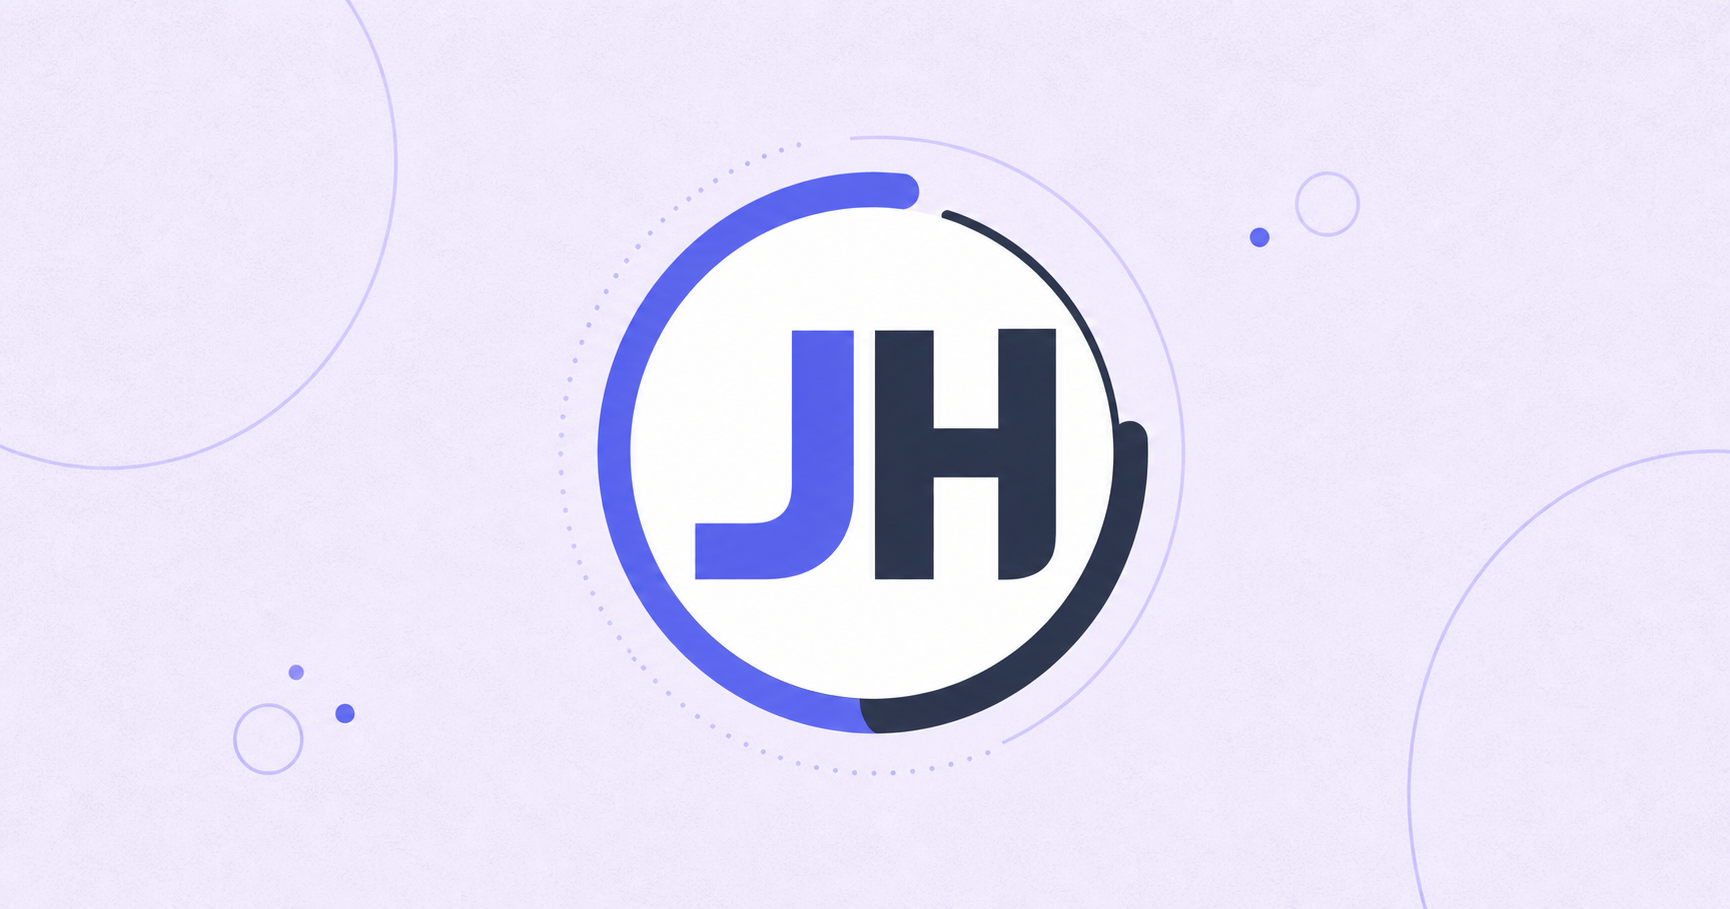
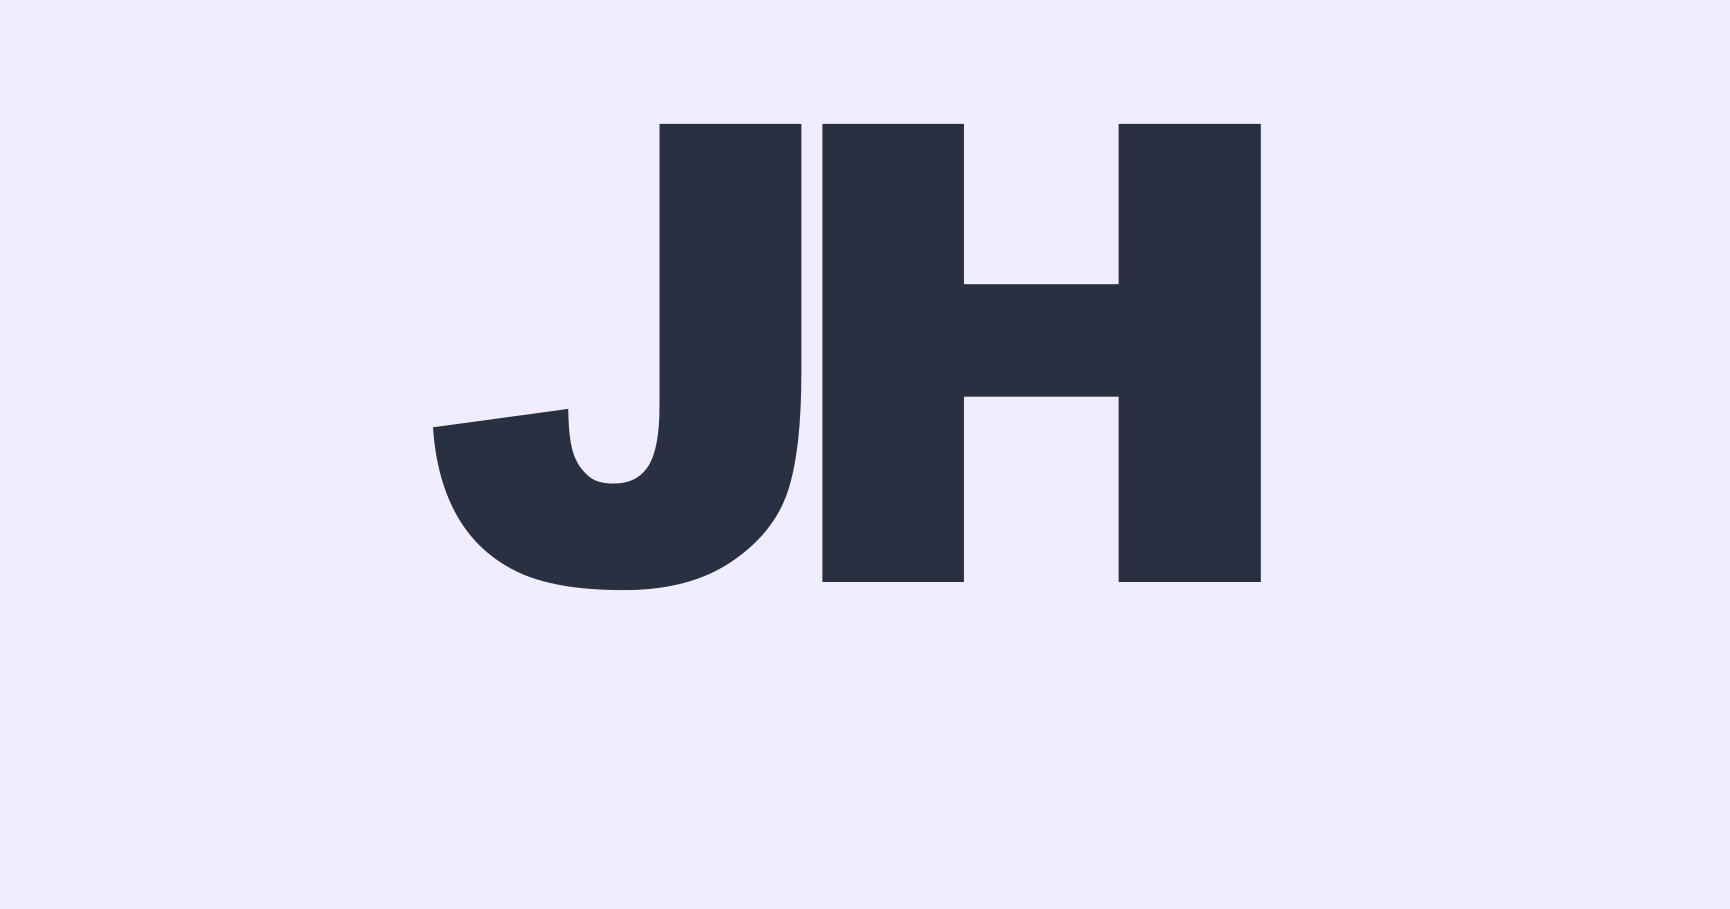
fix: simplify social image and restore navigation

diff --git a/app/components/top-link.tsx b/app/components/top-link.tsx
@@ -1,7 +1,6 @@
 "use client";
 
 import type { MouseEvent } from "react";
-import Image from "next/image";
 
 export default function TopLink() {
   const moveToTop = (event: MouseEvent<HTMLAnchorElement>) => {
@@ -11,8 +10,7 @@ export default function TopLink() {
 
   return (
     <a className="wordmark" href="#top" aria-label="페이지 최상단으로 이동" onClick={moveToTop}>
-      <Image src="/og-jh.png" alt="" width={30} height={30} />
-      <span>진환&apos;s 포트폴리오</span>
+      진환&apos;s 포트폴리오
     </a>
   );
 }

diff --git a/app/globals.css b/app/globals.css
@@ -6,7 +6,7 @@ html { scroll-behavior:smooth; }
 body { margin:0; background:var(--paper); color:var(--ink); font-family:Arial, "Apple SD Gothic Neo", "Malgun Gothic", sans-serif; }
 a { color:inherit; text-decoration:none; }
 .section-wrap { max-width:1240px; margin:0 auto; padding-left:40px; padding-right:40px; }
-.site-nav { position:sticky; top:0; z-index:50; max-width:1240px; height:82px; margin:0 auto; padding:0 40px; display:flex; align-items:center; justify-content:space-between; border-bottom:1px solid var(--line); background:rgba(251,250,247,.92); backdrop-filter:blur(12px); font-size:13px; font-weight:700; }.wordmark { display:inline-flex; align-items:center; gap:9px; font-weight:800; letter-spacing:-.04em; }.wordmark img { width:30px; height:30px; border-radius:50%; object-fit:cover; object-position:center; }.wordmark span { color:var(--blue); }.nav-links { display:flex; gap:28px; color:var(--muted); }.nav-links a:hover,.back-link:hover { color:var(--blue); }
+.site-nav { position:sticky; top:0; z-index:50; max-width:1240px; height:82px; margin:0 auto; padding:0 40px; display:flex; align-items:center; justify-content:space-between; border-bottom:1px solid var(--line); background:rgba(251,250,247,.92); backdrop-filter:blur(12px); font-size:13px; font-weight:700; }.wordmark { font-weight:800; letter-spacing:-.04em; }.wordmark span { color:var(--blue); }.nav-links { display:flex; gap:28px; color:var(--muted); }.nav-links a:hover,.back-link:hover { color:var(--blue); }
 
 .hero { padding-top:55px; padding-bottom:28px; }.hero-content { display:grid; grid-template-columns:1.3fr .7fr; gap:64px; align-items:center; min-height:570px; padding:64px 72px; border-radius:32px; background:var(--lavender); overflow:hidden; position:relative; }.hero-content:after { content:""; position:absolute; width:330px; height:330px; right:-120px; top:-125px; border-radius:50%; background:#dcd7ff; }.hero-copy { position:relative; z-index:1; }.hero-kicker { display:inline-block; margin:0 0 17px; padding:8px 13px; border-radius:999px; background:#fff; color:var(--blue-dark); font-size:12px; font-weight:800; }.hero h1 { margin:0; font-size:clamp(46px,6.2vw,86px); line-height:1.1; letter-spacing:-.075em; font-weight:800; }.hero h1 em,.display-copy em { color:var(--blue); font-style:normal; }.hero-description { max-width:490px; margin:28px 0; color:#565d6d; font-size:16px; line-height:1.8; }.primary-link { display:inline-block; padding:14px 20px; border-radius:14px; background:var(--blue); color:#fff; font-size:13px; font-weight:800; transition:background .2s ease, transform .2s ease; }.primary-link:hover { background:var(--blue-dark); transform:translateY(-2px); }.primary-link span { margin-left:20px; font-size:17px; }.profile-card { position:relative; z-index:1; width:min(100%,290px); justify-self:end; padding:13px; border-radius:26px; background:#fff; box-shadow:0 18px 40px rgba(68,75,130,.13); transform:rotate(2deg); }.photo-placeholder { height:320px; display:flex; flex-direction:column; align-items:center; justify-content:center; border-radius:18px; background:linear-gradient(145deg,#ffece4,#ffdcd8); color:#b26b63; text-align:center; }.photo-placeholder span { padding:6px 9px; border-radius:999px; background:rgba(255,255,255,.65); font-size:9px; font-weight:800; letter-spacing:.1em; }.photo-placeholder strong { margin-top:26px; font-size:42px; letter-spacing:-.1em; }.photo-placeholder small { margin-top:8px; font-size:11px; line-height:1.5; }.profile-meta { padding:15px 6px 6px; }.profile-meta span { color:var(--blue); font-size:11px; font-weight:800; }.profile-meta strong { display:block; margin-top:4px; font-size:23px; letter-spacing:-.06em; }.profile-meta p { margin:4px 0 0; color:var(--muted); font-size:11px; }.hero-grid { display:grid; grid-template-columns:repeat(3,1fr); gap:16px; margin-top:16px; }.hero-grid div { min-height:110px; padding:20px 22px; border-radius:18px; background:#fff; border:1px solid var(--line); display:flex; flex-direction:column; justify-content:space-between; }.hero-grid div:nth-child(2) { background:var(--mint); border-color:var(--mint); }.hero-grid div:nth-child(3) { background:var(--peach); border-color:var(--peach); }.hero-grid strong { font-size:clamp(21px,2.3vw,31px); letter-spacing:-.065em; }.hero-grid span { color:var(--muted); font-size:11px; font-weight:700; }
 
@@ -36,7 +36,7 @@ a { color:inherit; text-decoration:none; }
 
 .project-page { min-height:100vh; }.back-link { color:var(--muted); }.project-detail { padding-top:85px; padding-bottom:110px; }.detail-eyebrow { color:var(--blue); }.project-detail h1 { max-width:900px; margin:17px 0 48px; font-size:clamp(46px,7vw,94px); line-height:1.08; letter-spacing:-.085em; }.detail-intro { display:grid; grid-template-columns:1fr .7fr; gap:80px; padding:30px; border-radius:22px; background:var(--lavender); }.detail-intro > p { max-width:635px; margin:0; font-size:clamp(19px,2vw,27px); line-height:1.5; letter-spacing:-.04em; }.detail-intro dl { margin:0; }.detail-intro dl div { display:flex; justify-content:space-between; padding:10px 0; border-bottom:1px solid rgba(41,48,65,.15); font-size:12px; font-weight:700; }.detail-intro dt { color:var(--muted); }.detail-intro dd { margin:0; text-align:right; }.detail-stack { display:flex; flex-wrap:wrap; gap:7px; margin-top:24px; }.detail-stack span { background:#fff; }.detail-section { padding:85px 0; border-bottom:1px solid var(--line); }.two-column { display:grid; grid-template-columns:.7fr 1.3fr; gap:80px; }.detail-section h2,.decision-section h2 { margin:12px 0 0; font-size:clamp(30px,4vw,51px); line-height:1.1; letter-spacing:-.075em; }.detail-section ul { margin:0; padding:0; list-style:none; }.detail-section li { position:relative; margin-bottom:10px; padding:19px 20px 19px 48px; border-radius:15px; background:#fff; border:1px solid var(--line); font-size:15px; line-height:1.65; }.detail-section li:before { content:"↗"; position:absolute; left:19px; top:17px; color:var(--blue); font-weight:800; }.outcome-list li { background:var(--mint); border-color:var(--mint); font-weight:700; }.decision-section { padding-top:85px; }.decision-grid { display:grid; grid-template-columns:repeat(3,1fr); gap:16px; margin-top:35px; }.decision-grid article { min-height:225px; padding:22px; border-radius:20px; background:#fff; border:1px solid var(--line); }.decision-grid article:nth-child(2) { background:var(--mint); border-color:var(--mint); }.decision-grid article:nth-child(3) { background:var(--peach); border-color:var(--peach); }.decision-grid span { color:var(--blue); font-size:11px; font-weight:800; }.decision-grid h3 { margin:43px 0 10px; font-size:21px; letter-spacing:-.055em; }.decision-grid p { margin:0; color:#5e6673; font-size:13px; line-height:1.65; }
 
-@media (max-width:760px) { .section-wrap { padding-left:20px; padding-right:20px; }.site-nav { height:66px; padding:0 20px; font-size:12px; }.wordmark { gap:7px; }.wordmark img { width:25px; height:25px; }.nav-links { gap:15px; }.hero { padding-top:25px; }.hero-content { grid-template-columns:1fr; gap:30px; min-height:0; padding:40px 26px 26px; border-radius:24px; }.hero-content:after { width:230px; height:230px; right:-115px; top:-115px; }.hero h1 { font-size:clamp(42px,11.5vw,64px); }.hero-description { margin:23px 0; font-size:14px; }.profile-card { width:100%; justify-self:auto; display:grid; grid-template-columns:120px 1fr; gap:16px; align-items:center; padding:10px; transform:none; }.photo-placeholder { height:150px; }.photo-placeholder strong { margin-top:12px; font-size:30px; }.photo-placeholder small { font-size:9px; }.profile-meta { padding:0; }.hero-grid { gap:8px; margin-top:10px; }.hero-grid div { min-height:100px; padding:15px 12px; border-radius:14px; }.hero-grid strong { font-size:17px; }.hero-grid span { font-size:9px; line-height:1.4; }.intro,.scope-section,.systems-section,.skills-section { padding-top:82px; padding-bottom:82px; }.intro-copy,.system-layout,.detail-intro,.two-column { grid-template-columns:1fr; gap:28px; }.display-copy { font-size:39px; }.scope-list,.project-list,.skills-grid { grid-template-columns:1fr; gap:10px; }.scope-item { min-height:190px; }.project-heading { display:block; }.project-heading p { margin-top:23px; }.projects-section { padding-top:78px; padding-bottom:82px; }.project-card { min-height:330px; }.systems-section .section-label { margin-bottom:25px; }.system-map { min-height:310px; }.node-user { left:5%; top:8%; }.node-edge { left:32%; top:33%; }.node-app { right:4%; top:17%; width:145px; }.node-data { left:16%; bottom:12%; }.map-observe { right:4%; bottom:12%; width:130px; }.line-2 { width:17%; }.footer { grid-template-columns:1fr; padding-top:42px; }.footer-note { align-self:start; }.project-detail { padding-top:56px; padding-bottom:78px; }.project-detail h1 { margin-bottom:38px; }.detail-intro { padding:22px; }.detail-section { padding:64px 0; }.detail-section li { font-size:14px; }.decision-section { padding-top:64px; }.decision-grid { grid-template-columns:1fr; gap:10px; margin-top:28px; }.decision-grid article { min-height:auto; }.decision-grid h3 { margin-top:28px; } }
+@media (max-width:760px) { .section-wrap { padding-left:20px; padding-right:20px; }.site-nav { height:66px; padding:0 20px; font-size:12px; }.nav-links { gap:15px; }.hero { padding-top:25px; }.hero-content { grid-template-columns:1fr; gap:30px; min-height:0; padding:40px 26px 26px; border-radius:24px; }.hero-content:after { width:230px; height:230px; right:-115px; top:-115px; }.hero h1 { font-size:clamp(42px,11.5vw,64px); }.hero-description { margin:23px 0; font-size:14px; }.profile-card { width:100%; justify-self:auto; display:grid; grid-template-columns:120px 1fr; gap:16px; align-items:center; padding:10px; transform:none; }.photo-placeholder { height:150px; }.photo-placeholder strong { margin-top:12px; font-size:30px; }.photo-placeholder small { font-size:9px; }.profile-meta { padding:0; }.hero-grid { gap:8px; margin-top:10px; }.hero-grid div { min-height:100px; padding:15px 12px; border-radius:14px; }.hero-grid strong { font-size:17px; }.hero-grid span { font-size:9px; line-height:1.4; }.intro,.scope-section,.systems-section,.skills-section { padding-top:82px; padding-bottom:82px; }.intro-copy,.system-layout,.detail-intro,.two-column { grid-template-columns:1fr; gap:28px; }.display-copy { font-size:39px; }.scope-list,.project-list,.skills-grid { grid-template-columns:1fr; gap:10px; }.scope-item { min-height:190px; }.project-heading { display:block; }.project-heading p { margin-top:23px; }.projects-section { padding-top:78px; padding-bottom:82px; }.project-card { min-height:330px; }.systems-section .section-label { margin-bottom:25px; }.system-map { min-height:310px; }.node-user { left:5%; top:8%; }.node-edge { left:32%; top:33%; }.node-app { right:4%; top:17%; width:145px; }.node-data { left:16%; bottom:12%; }.map-observe { right:4%; bottom:12%; width:130px; }.line-2 { width:17%; }.footer { grid-template-columns:1fr; padding-top:42px; }.footer-note { align-self:start; }.project-detail { padding-top:56px; padding-bottom:78px; }.project-detail h1 { margin-bottom:38px; }.detail-intro { padding:22px; }.detail-section { padding:64px 0; }.detail-section li { font-size:14px; }.decision-section { padding-top:64px; }.decision-grid { grid-template-columns:1fr; gap:10px; margin-top:28px; }.decision-grid article { min-height:auto; }.decision-grid h3 { margin-top:28px; } }
 
 .hero h1 { word-break:keep-all; }
 